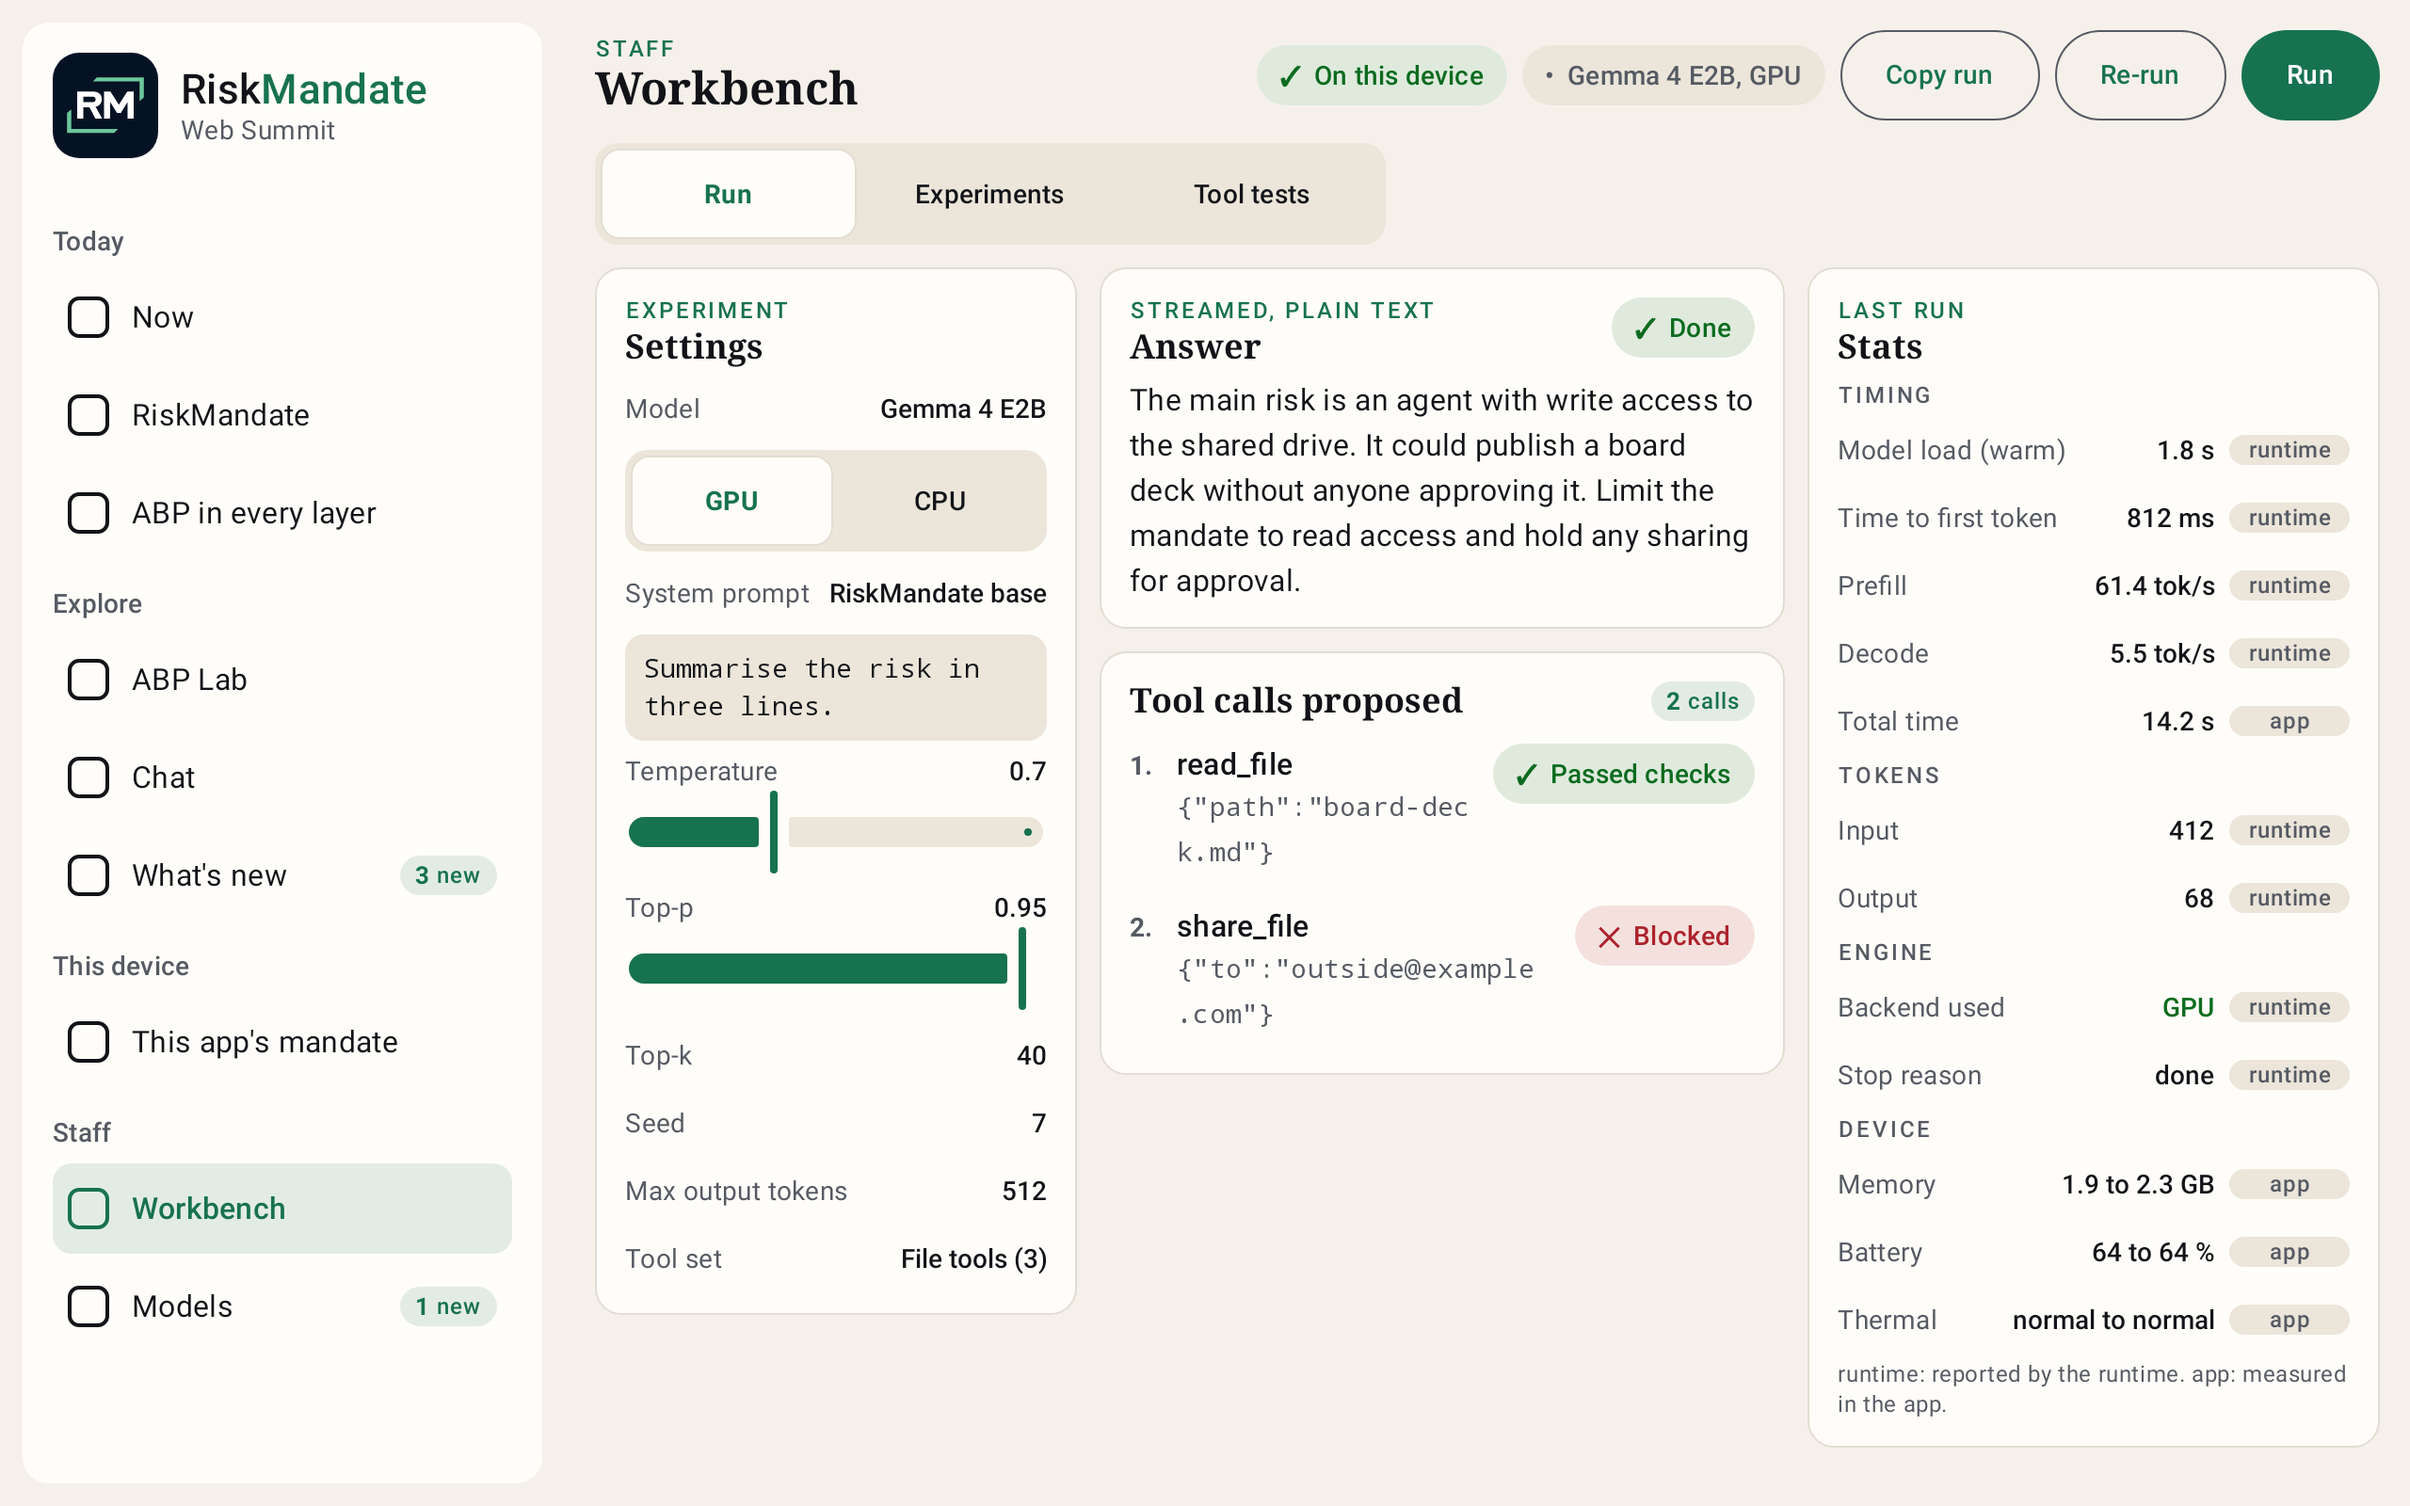
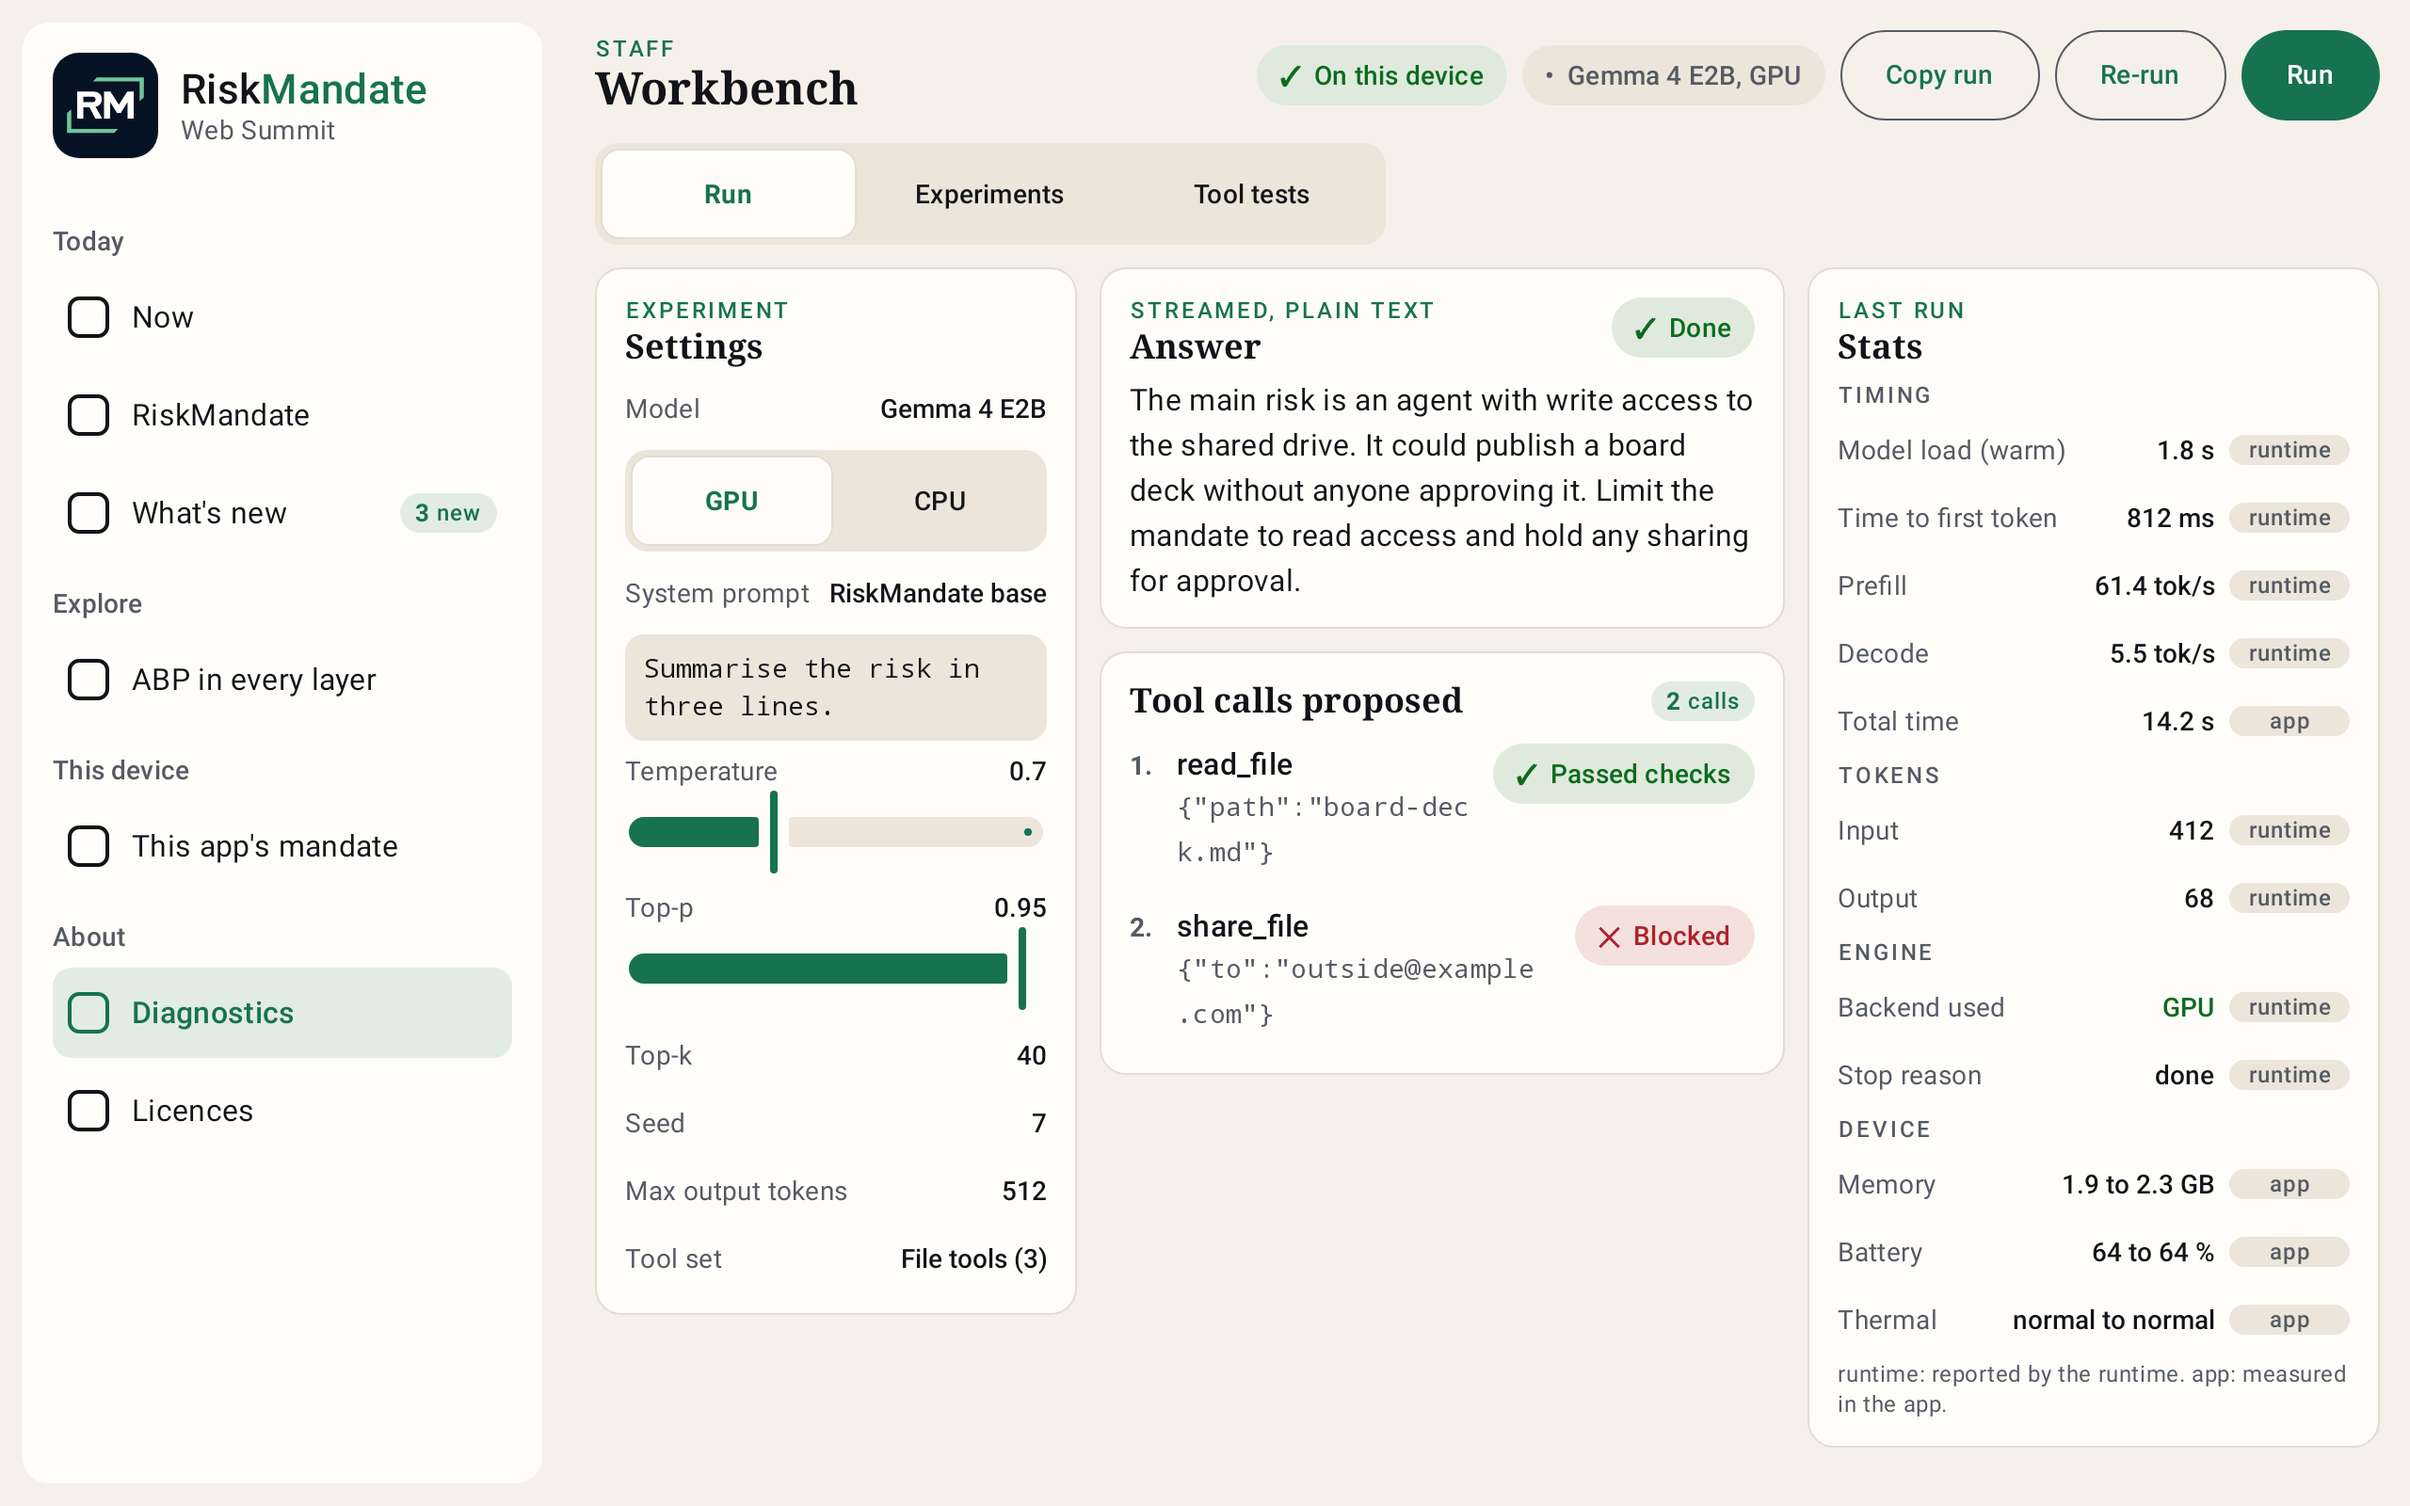
design.android@promptugal.ai: mocks: sidebar lists enabled destinations only; Workbench reached via Diagnostics > Preview
Architect ruling and security R-app-2: disabled features are never in the sidebar. ShellSample redrawn,
workbench and theme images refreshed, docs say where the Workbench lives.

Agent: design.android@promptugal.ai
Issue: WS-177
For: Dinis

Claude-Session: https://claude.ai/code/session_018yvwtQULeY1PiFvVaB4VTb

diff --git a/app/src/test/java/ai/riskmandate/app/ui/UiScreenshotTest.kt b/app/src/test/java/ai/riskmandate/app/ui/UiScreenshotTest.kt
@@ -94,11 +94,11 @@ class UiScreenshotTest {
     /** 512 x 512 px: 256 dp at xhdpi. Copy `ui-play-icon-512-square-portrait-light.png` to docs/design/brand/. */
     @Test fun playIcon() = shoot("play-icon-512", tag = "", devicesOverride = listOf(Device("square", 256, 256, "xhdpi"))) { PlayIconSample() }
 
-    /** Workbench mocks inside the shell, tablet landscape. */
+    /** Workbench mocks inside the shell, tablet landscape. The Workbench is disabled, so it is reached through Diagnostics > Preview: the sidebar shows Diagnostics selected. */
     @Test fun workbench() {
-        shoot("workbench-run", onlyTablet10 = true) { ShellSample("Workbench") { WorkbenchRunSample() } }
-        shoot("workbench-experiments", onlyTablet10 = true) { ShellSample("Workbench") { WorkbenchExperimentsSample() } }
-        shoot("workbench-tooltests", onlyTablet10 = true) { ShellSample("Workbench") { WorkbenchToolTestsSample() } }
+        shoot("workbench-run", onlyTablet10 = true) { ShellSample("Diagnostics") { WorkbenchRunSample() } }
+        shoot("workbench-experiments", onlyTablet10 = true) { ShellSample("Diagnostics") { WorkbenchExperimentsSample() } }
+        shoot("workbench-tooltests", onlyTablet10 = true) { ShellSample("Diagnostics") { WorkbenchToolTestsSample() } }
     }
 
     @Test fun brand() = shoot("brand", onlyTablet10 = true) { BrandSample() }

diff --git a/app/src/test/java/ai/riskmandate/app/ui/UiGallery.kt b/app/src/test/java/ai/riskmandate/app/ui/UiGallery.kt
@@ -149,11 +149,13 @@ internal fun ShellSample(selected: String = "Now", content: @Composable () -> Un
         ) {
             BrandBlock("Web Summit")
             Spacer(Modifier.height(16.dp))
+            // Only enabled destinations: disabled features (the Workbench, models, the Lab, chat) are reached through
+            // Diagnostics > Preview, never the sidebar (architect's ruling, security R-app-2).
             for ((section, items) in listOf(
-                "Today" to listOf("Now" to 0, "RiskMandate" to 0, "ABP in every layer" to 0),
-                "Explore" to listOf("ABP Lab" to 0, "Chat" to 0, "What's new" to 3),
+                "Today" to listOf("Now" to 0, "RiskMandate" to 0, "What's new" to 3),
+                "Explore" to listOf("ABP in every layer" to 0),
                 "This device" to listOf("This app's mandate" to 0),
-                "Staff" to listOf("Workbench" to 0, "Models" to 1),
+                "About" to listOf("Diagnostics" to 0, "Licences" to 0),
             )) {
                 Text(section, color = c.muted, style = androidx.compose.material3.MaterialTheme.typography.titleSmall, modifier = Modifier.padding(top = 12.dp, bottom = 4.dp))
                 for ((i, item) in items.withIndex()) {

diff --git a/docs/design/android-theme.md b/docs/design/android-theme.md
@@ -108,7 +108,7 @@ Target: the iPad shell (`Apps/PrompTugal/Shell`: sidebar, destinations, a "Now" 
 - Left, 300 dp, a `card`-coloured panel inset 12 dp from the edges, 14 dp radius, scrolls on its own. The content pane takes the rest, on `paper`.
 - **Brand block** at the top: the RiskMandate mark (the "RM" mark from riskmandate.ai, only once Dinis confirms it may be used as the app mark; until then a plain ink square with "RM" in the paper colour, as in the sample) 56 dp, then a `Kicker("RiskMandate")` and one muted line ("Web Summit", or the device label when managed). Not interactive.
 - **Sections** in muted 14sp semibold ("Today", "Explore", "This device"), each followed by its destinations. Each destination is a 48 dp+ row: 24 dp line icon, label (16sp), at the end an optional `CountPill` (for example "3 new" on What's new) or a status glyph. Selected: row tinted red at 12%, label and icon red, label semibold, `selected` semantics; others ink.
-- **Destinations**: Now (the home page), then the features by their `Feature.title`, grouped as in the table below. A feature with `enabled = false` is not listed. Order and grouping are the conductor's (`Features.kt`); a `section` field on `Feature` is the architect's to add; until then the host groups by id.
+- **Destinations**: Now (the home page), then the features by their `Feature.title`, grouped as in the table below. A feature with `enabled = false` is not listed in the sidebar and has no Home card: it is reached through Diagnostics > Preview only (architect's ruling, security R-app-2); the `ShellSample` mock lists enabled destinations only. Order and grouping are the conductor's (`Features.kt`); a `section` field on `Feature` is the architect's to add; until then the host groups by id.
 - **Icons**: line (outlined) icons, 24 dp, 2 dp stroke, drawn as vector drawables in `res/drawable` (Material Symbols Outlined, Apache 2.0, licence noted on the Licences screen; no `material-icons-extended` dependency, it adds megabytes). One icon per destination, chosen by app.android; the label always accompanies it.
 - A collapse button at the top of the sidebar hides it to an icon rail (72 dp); the state is remembered per device. In **stand mode the sidebar is collapsed to the rail by default** so the content is the screen; staff open it.
 

diff --git a/docs/design/workbench.md b/docs/design/workbench.md
@@ -6,6 +6,8 @@ Owner: design.android@promptugal.ai. Written 9 Nov 2026 from `briefs/2026-11-09_
 - `docs/design/workbench/workbench-experiments-light.png`, `-dark.png`
 - `docs/design/workbench/workbench-tooltests-light.png`, `-dark.png`
 
+**Where it lives.** The Workbench is a disabled feature until Dinis has used it on the tablet, so it is **not in the sidebar**: it is reached through Diagnostics > Preview, like the other LLM screens (architect's ruling, security R-app-2). The mocks draw the shell with only the enabled destinations and Diagnostics selected, which is where a person is when they open it. When it is enabled it joins the sidebar under the section the conductor chooses; nothing in the layout changes.
+
 ## Principles
 
 - **Staff only, dense, tablet landscape first.** Designed at 1280 x 800 dp with the shell's permanent sidebar (so the content area is about 956 x 760 dp), three panes side by side. It is a screen to work at with the tablet in hand or on a stand, not a screen to read from 2 m: 14sp is the smallest text, 16sp for answers and prompts, 48 dp for anything you touch, 28 dp for static rows (stats), 40 dp for static table rows, 48 dp for clickable ones. Staff screens are hidden in stand mode by the host, so none of the 2 m sizes of B and the Lab apply.
